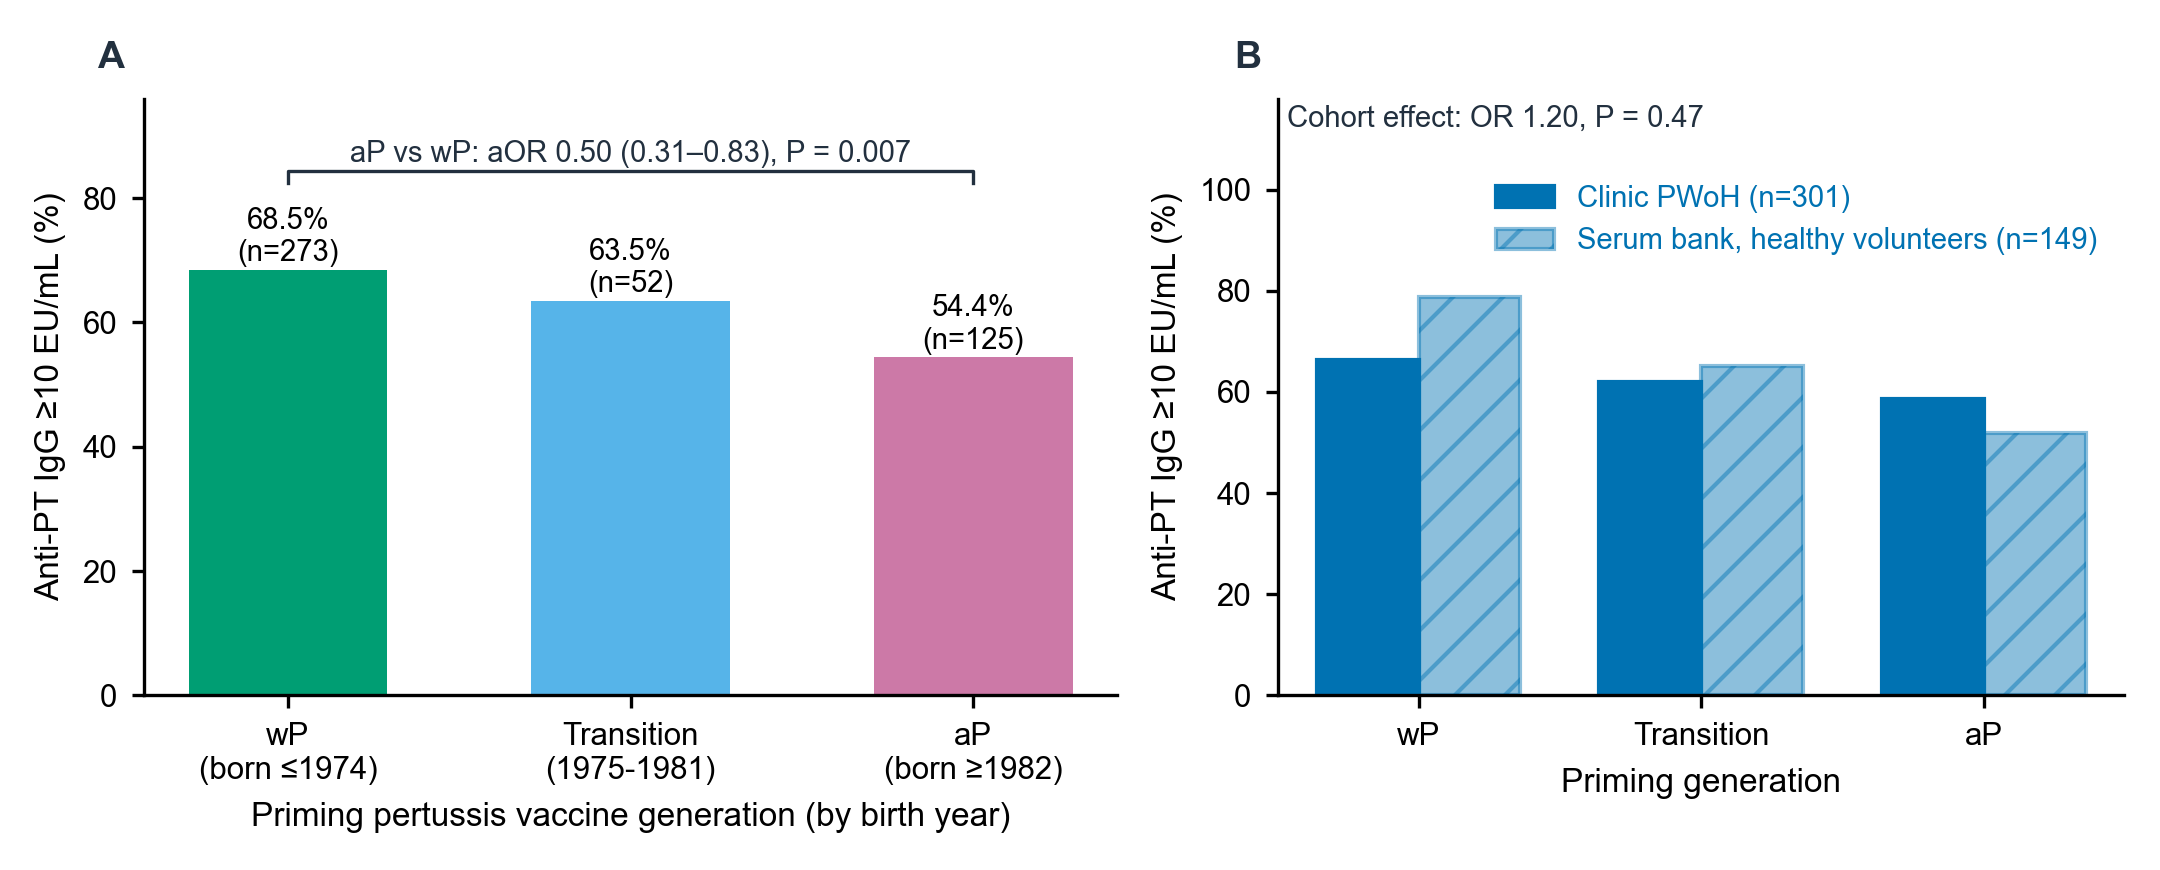
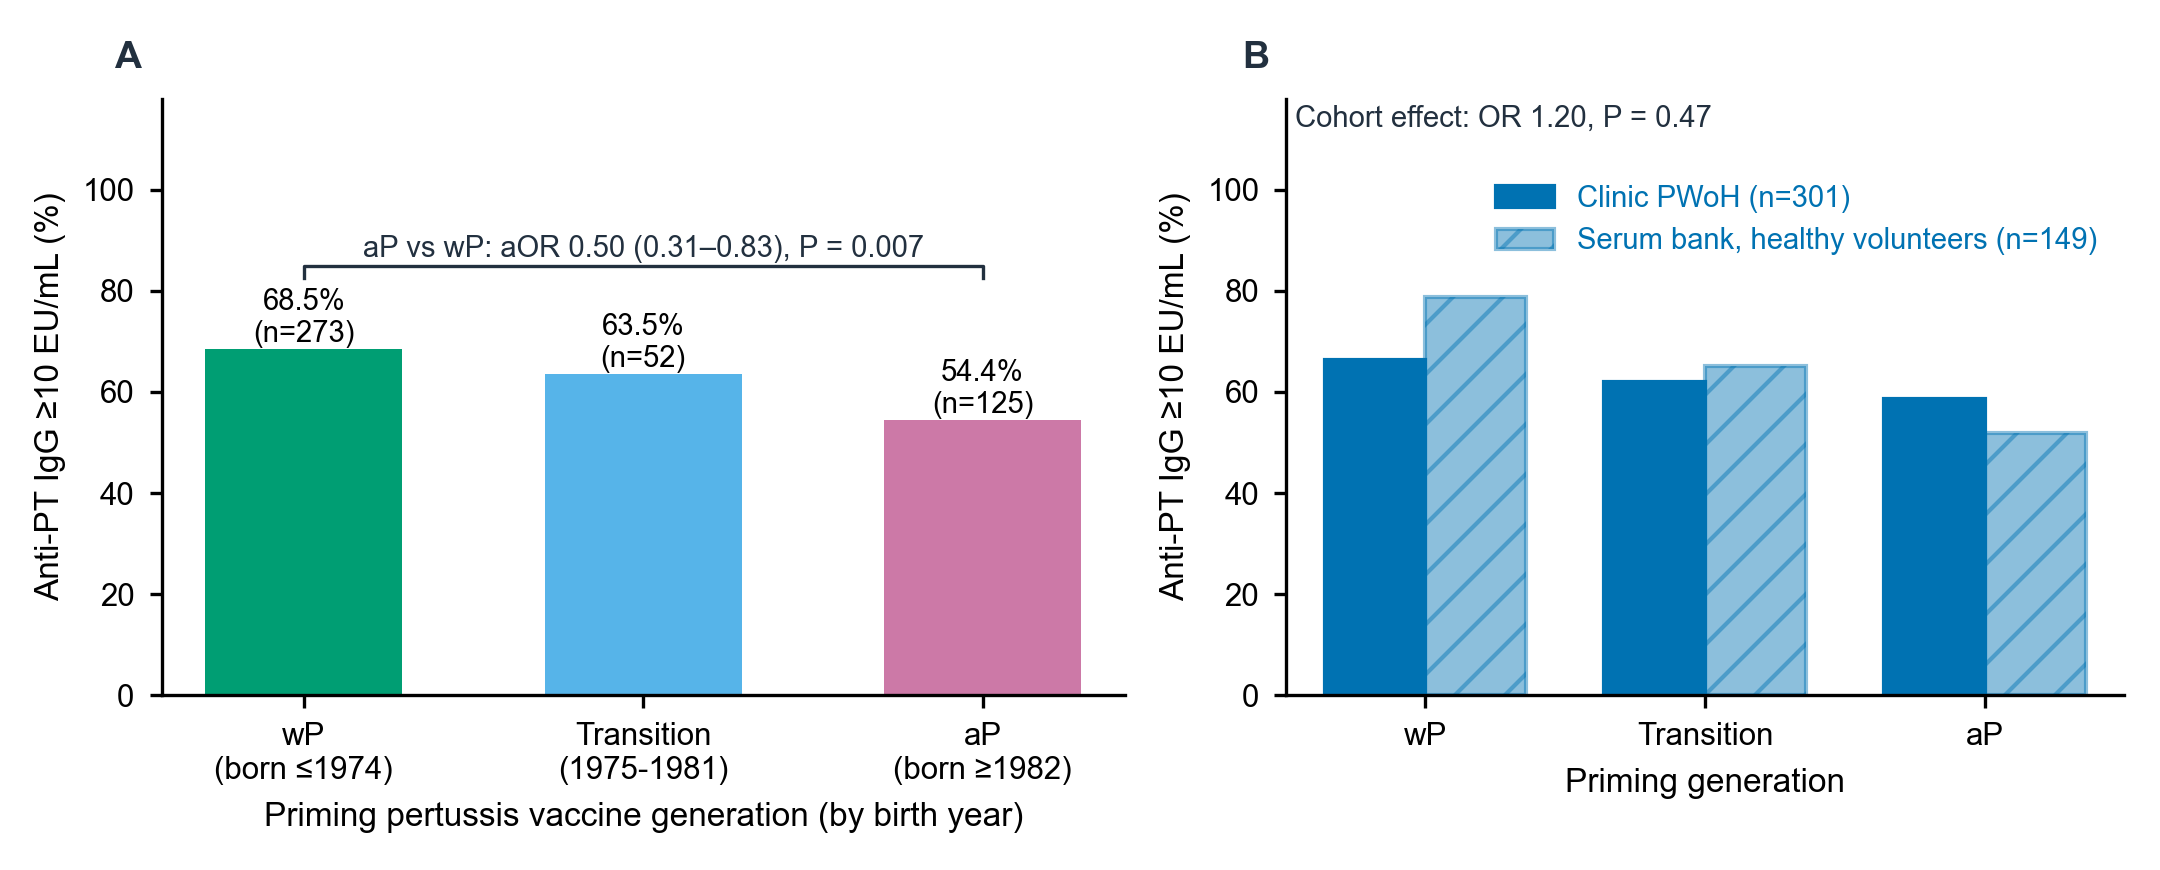
Fig3: same y axis in both panels (0-100%)

diff --git a/09_fig3_priming_generation.py b/09_fig3_priming_generation.py
@@ -176,7 +176,9 @@ def main():
     ax.set_xticklabels([LABEL[g] for g in ORDER], fontsize=C.FS["tick"])
     ax.set_xlabel("Priming pertussis vaccine generation (by birth year)")
     ax.set_ylabel(f"Anti-PT IgG ≥{C.CUT_POS} {C.ASSAY_UNIT} (%)")
-    ax.set_ylim(0, 96)
+    # same measure as panel B, so the same axis (limit and ticks)
+    ax.set_ylim(0, 118)
+    ax.set_yticks(range(0, 101, 20))
     F.sig_bar(ax, x[0], x[2], max(vals) + 14.0,
               text=f"aP vs wP: aOR {or_ap:.2f} ({lci:.2f}–{uci:.2f}), "
                    f"{F.p_label(r.pvalues['aP'])}")
